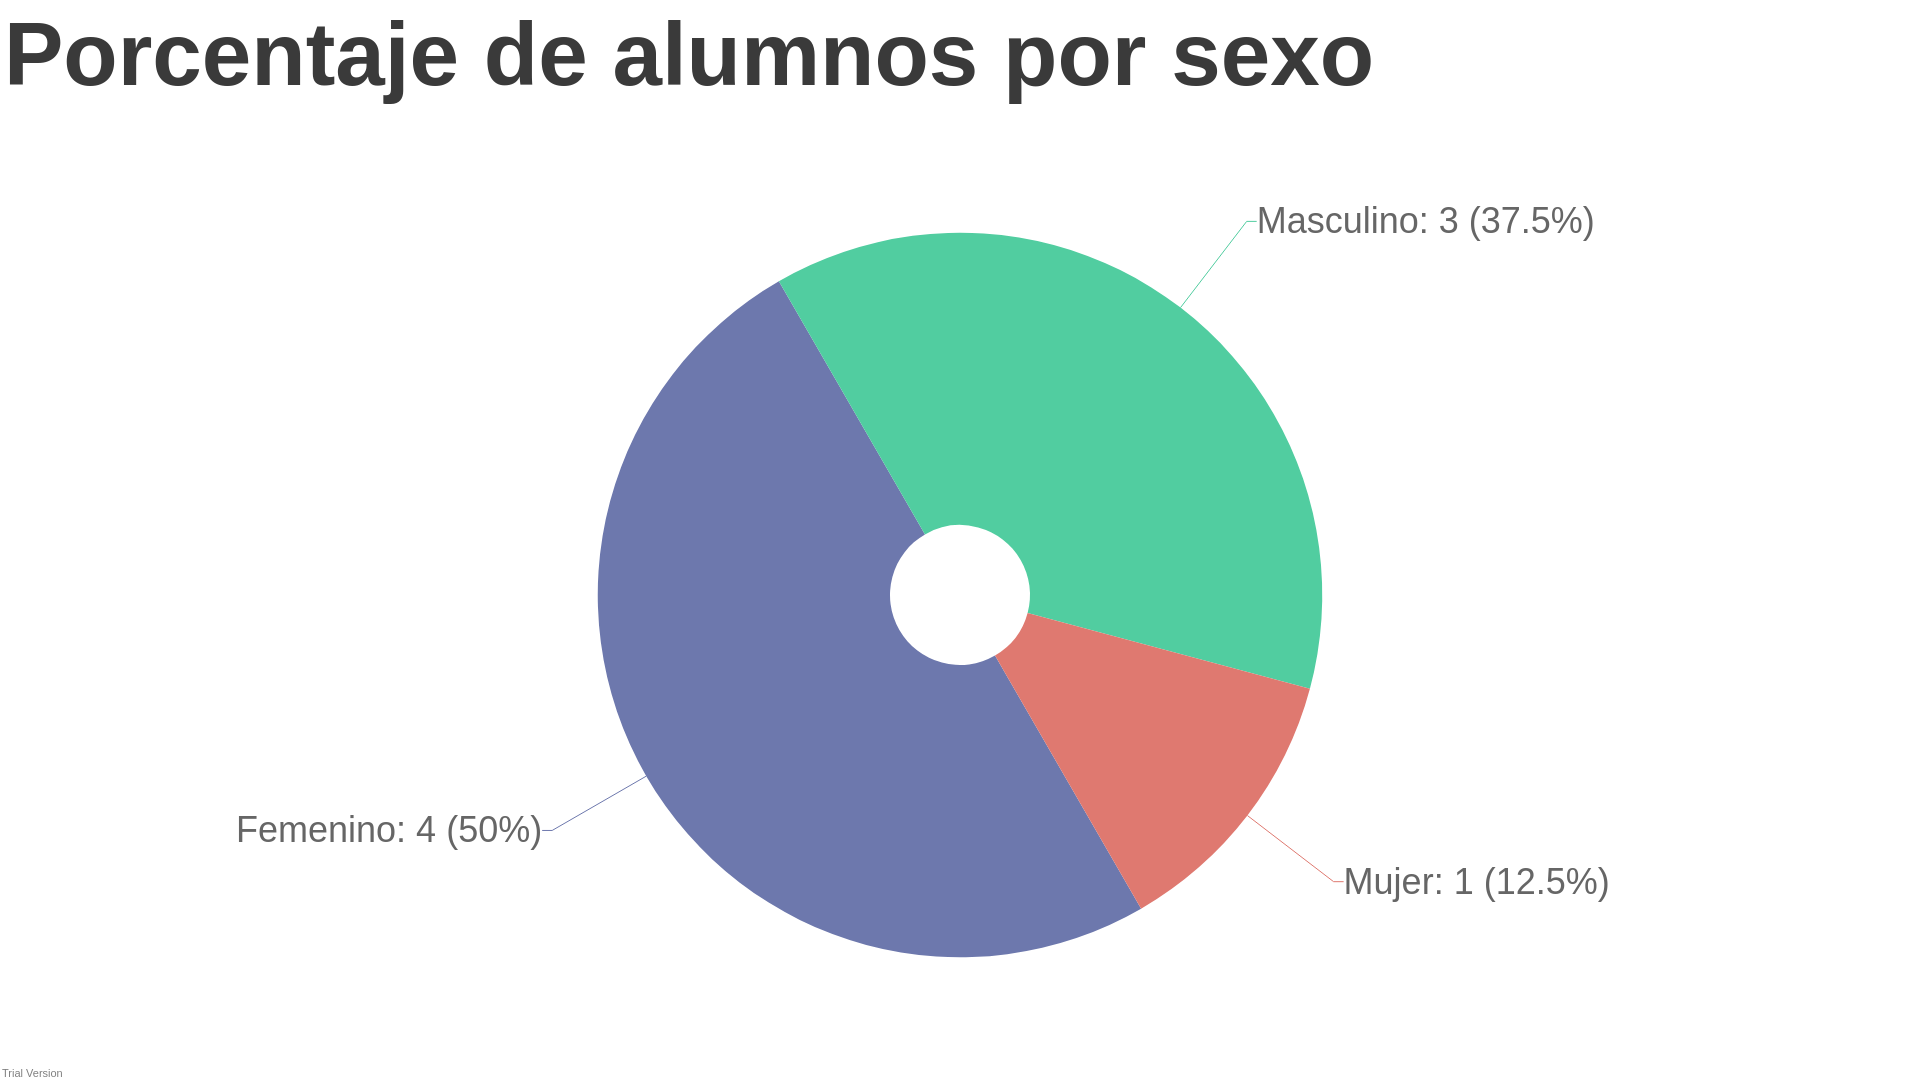
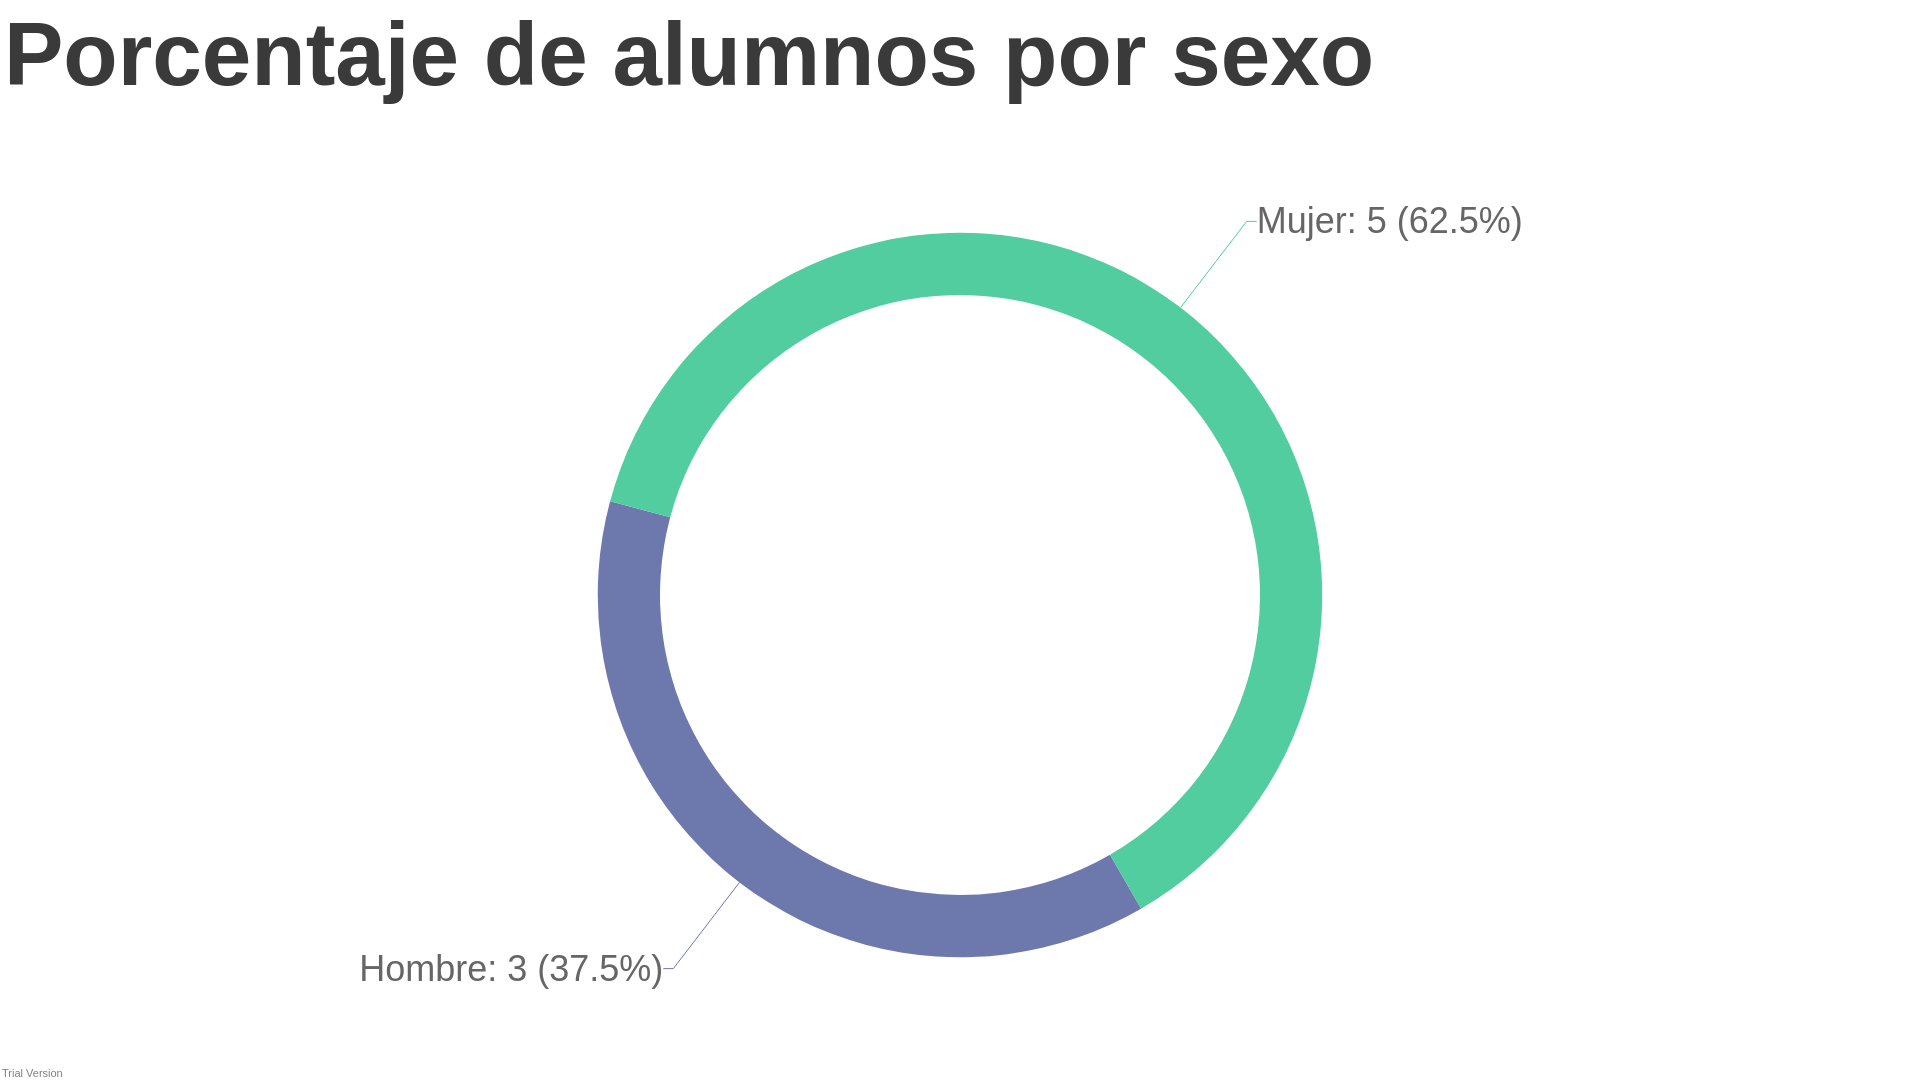
Imagen corregida, cambiar contraseña back agregado

diff --git a/SistemaRegistro/alumno/js/datos_personales.js b/SistemaRegistro/alumno/js/datos_personales.js
@@ -26,7 +26,13 @@ function datosContrasenaFormulario(){
     onValid: function( event ){
       event.preventDefault();
       $.ajax({
-        // Inserta aqui la peticion al servidor.
+        method: "post",
+        url: "../php/cambia_contrasena.php",
+        data: $( "#cambiar_contrasena" ).serialize(),
+        cache: false,
+        success: function( resp ){
+          alert(resp);
+        }
       });
     }
   });

diff --git a/SistemaRegistro/alumno/html/pagina_inicio.php b/SistemaRegistro/alumno/html/pagina_inicio.php
@@ -51,7 +51,7 @@
           <div class = "col l2 hide-on-med-and-down">
             <ul id = "slide-out">
               <li><div>
-                <a href = "#user"><img class="circle responsive-img" src="<?php echo $userPic?>"/></a>
+                <a href = "#user"><img class="circle responsive-img" src="../../media/<?php echo $userPic?>"/></a>
               </div></li>
               <div style="clear:both; margin:30px" > </div>
               <li><p class = "center-align"><i class = "fas fa-graduation-cap"></i> Bienvenido </p></li>

diff --git a/SistemaRegistro/reportes/alum_sexo.php b/SistemaRegistro/reportes/alum_sexo.php
@@ -19,7 +19,7 @@
                         // Change type to "doughnut", "line", "splineArea", etc.
                         type: "doughnut",
                         startAngle: 60,
-                        innerRadius: 70,
+                        innerRadius: 300,
                         indexLabelFontSize: 36,
                         indexLabel: "{label}: {y} (#percent%)",
                         toolTipContent: "<b>{label}:</b> {y} (#percent%)",

diff --git a/SistemaRegistro/reportes/comprobante.php b/SistemaRegistro/reportes/comprobante.php
@@ -39,6 +39,6 @@
     $mpdf->WriteHTML("</div>");
     $mpdf->WriteHTML("<div id='foot'>Escuela Superior de C&oacute;mputo - Contacto: (55) 8238 5086</div>");
     $mpdf->Image("../media/".$alum_data['Foto'], 17, 37, 64, 64, 'png', '', true, false);
-    $mpdf->Image("./qr/".$ref.".png", 40, 110, 128, 128, 'png', '', true, false);
+    $mpdf->Image("./qr/".$ref.".png", 40, 125, 128, 128, 'png', '', true, false);
     $mpdf->Output();
 ?>

diff --git a/SistemaRegistro/php/DB_Manager.php b/SistemaRegistro/php/DB_Manager.php
@@ -45,6 +45,11 @@
         return true;
     }
 
+    function update_contrasena($con, $ref, $old_pass, $new_pass) {
+        $sql = "UPDATE Alumno SET Password='".$new_pass."' WHERE NoReferencia='".$ref."' AND Password='".$old_pass."'";
+        return mysqli_query($con, $sql);
+    }
+
     function asigna_horario($con) {
         $horas = [10, 12, 14];
         $sql = "SELECT * FROM AlumnosHorario";

diff --git a/SistemaRegistro/alumno/php/cambia_contrasena.php b/SistemaRegistro/alumno/php/cambia_contrasena.php
@@ -1,0 +1,7 @@
+<?php
+    require("../../php/DB_Manager.php");
+    $ref = $_SESSION['ref'];
+    $old_pass = $_POST['contrasena_actual'];
+    $new_pass = $_POST['contrasena_nueva'];
+    echo update_contrasena(connect(), $ref, $old_pass, $new_pass);
+?>
